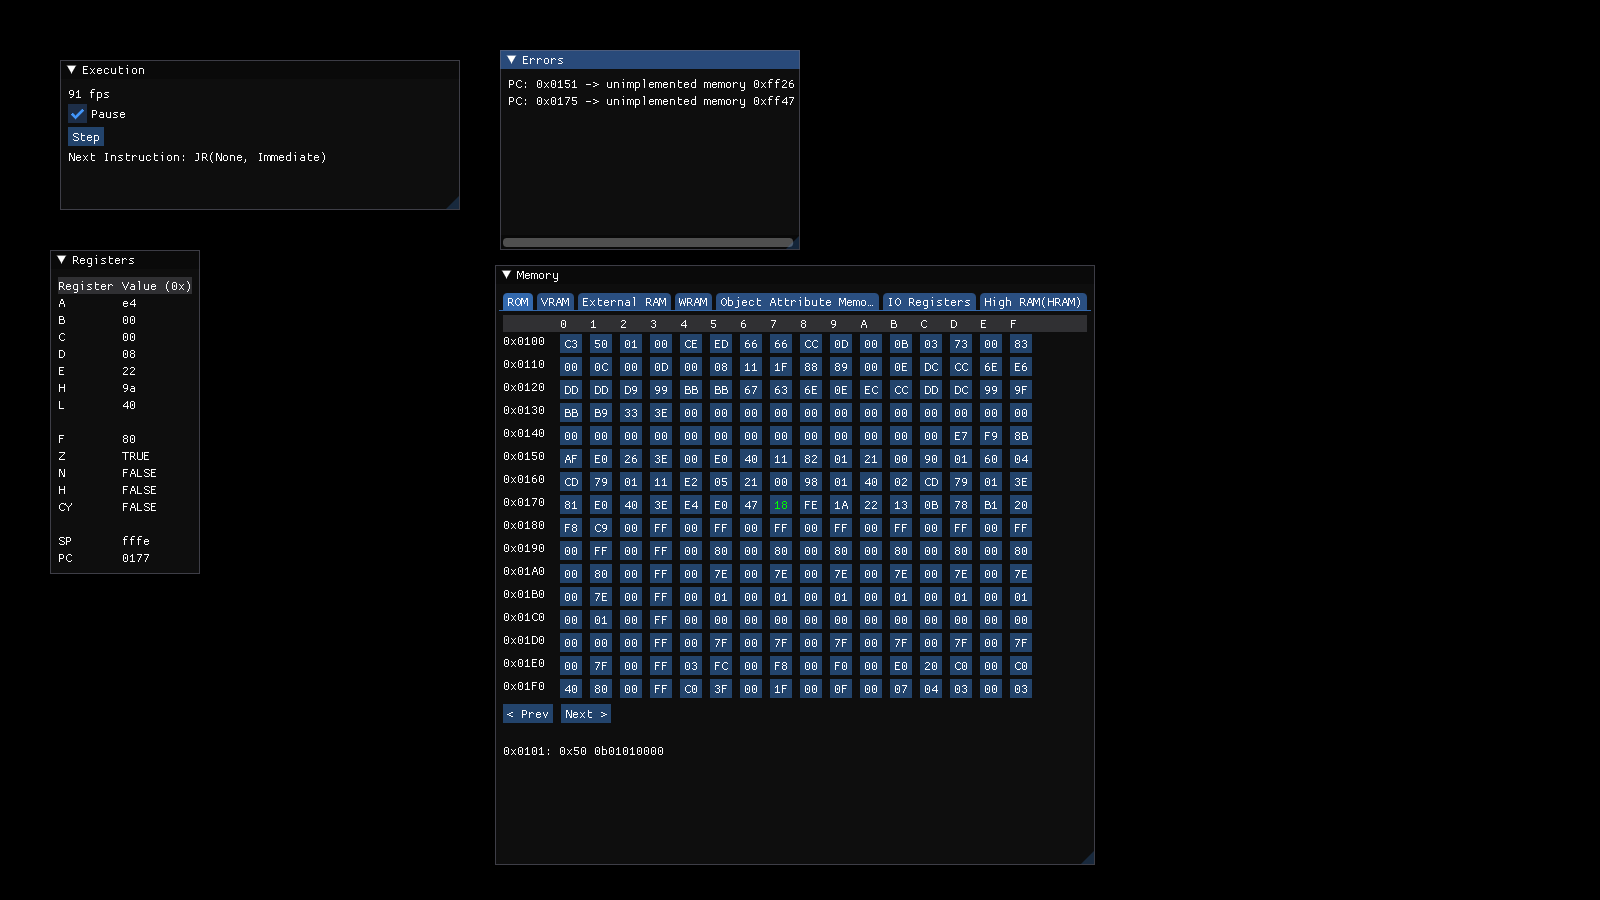
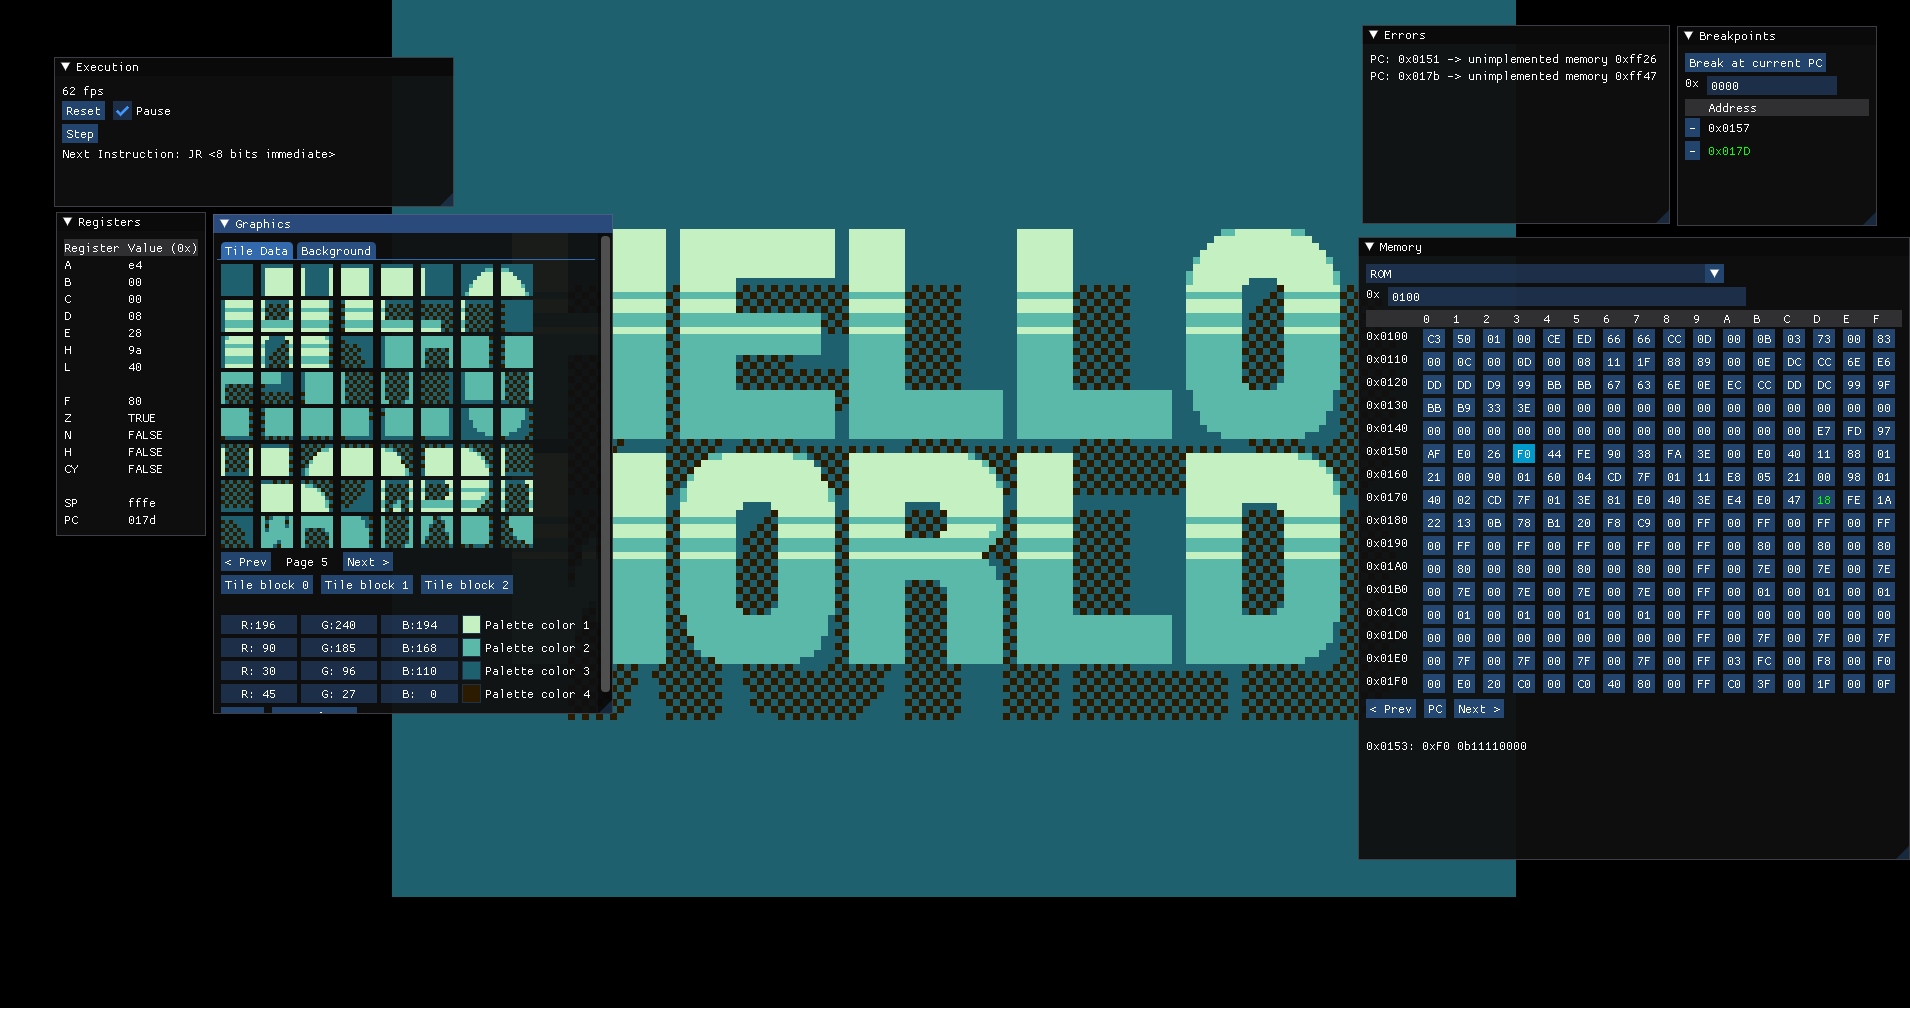
docs: Added newer screenshots

diff --git a/README.md b/README.md
@@ -23,6 +23,9 @@ Options:
 - [X] Interrupts
 - [X] Timer
 - [ ] Graphics
+    - [X] Background
+    - [ ] Window
+    - [ ] OAM
 - [ ] Audio
 - [ ] MBC
 - [ ] Joypad input
@@ -31,5 +34,6 @@ Options:
 <summary>Screenshots</summary>
 
 ![Screenshot 1](screenshots/1.png)
+![Screenshot 2](screenshots/2.png)
 
 </details>
